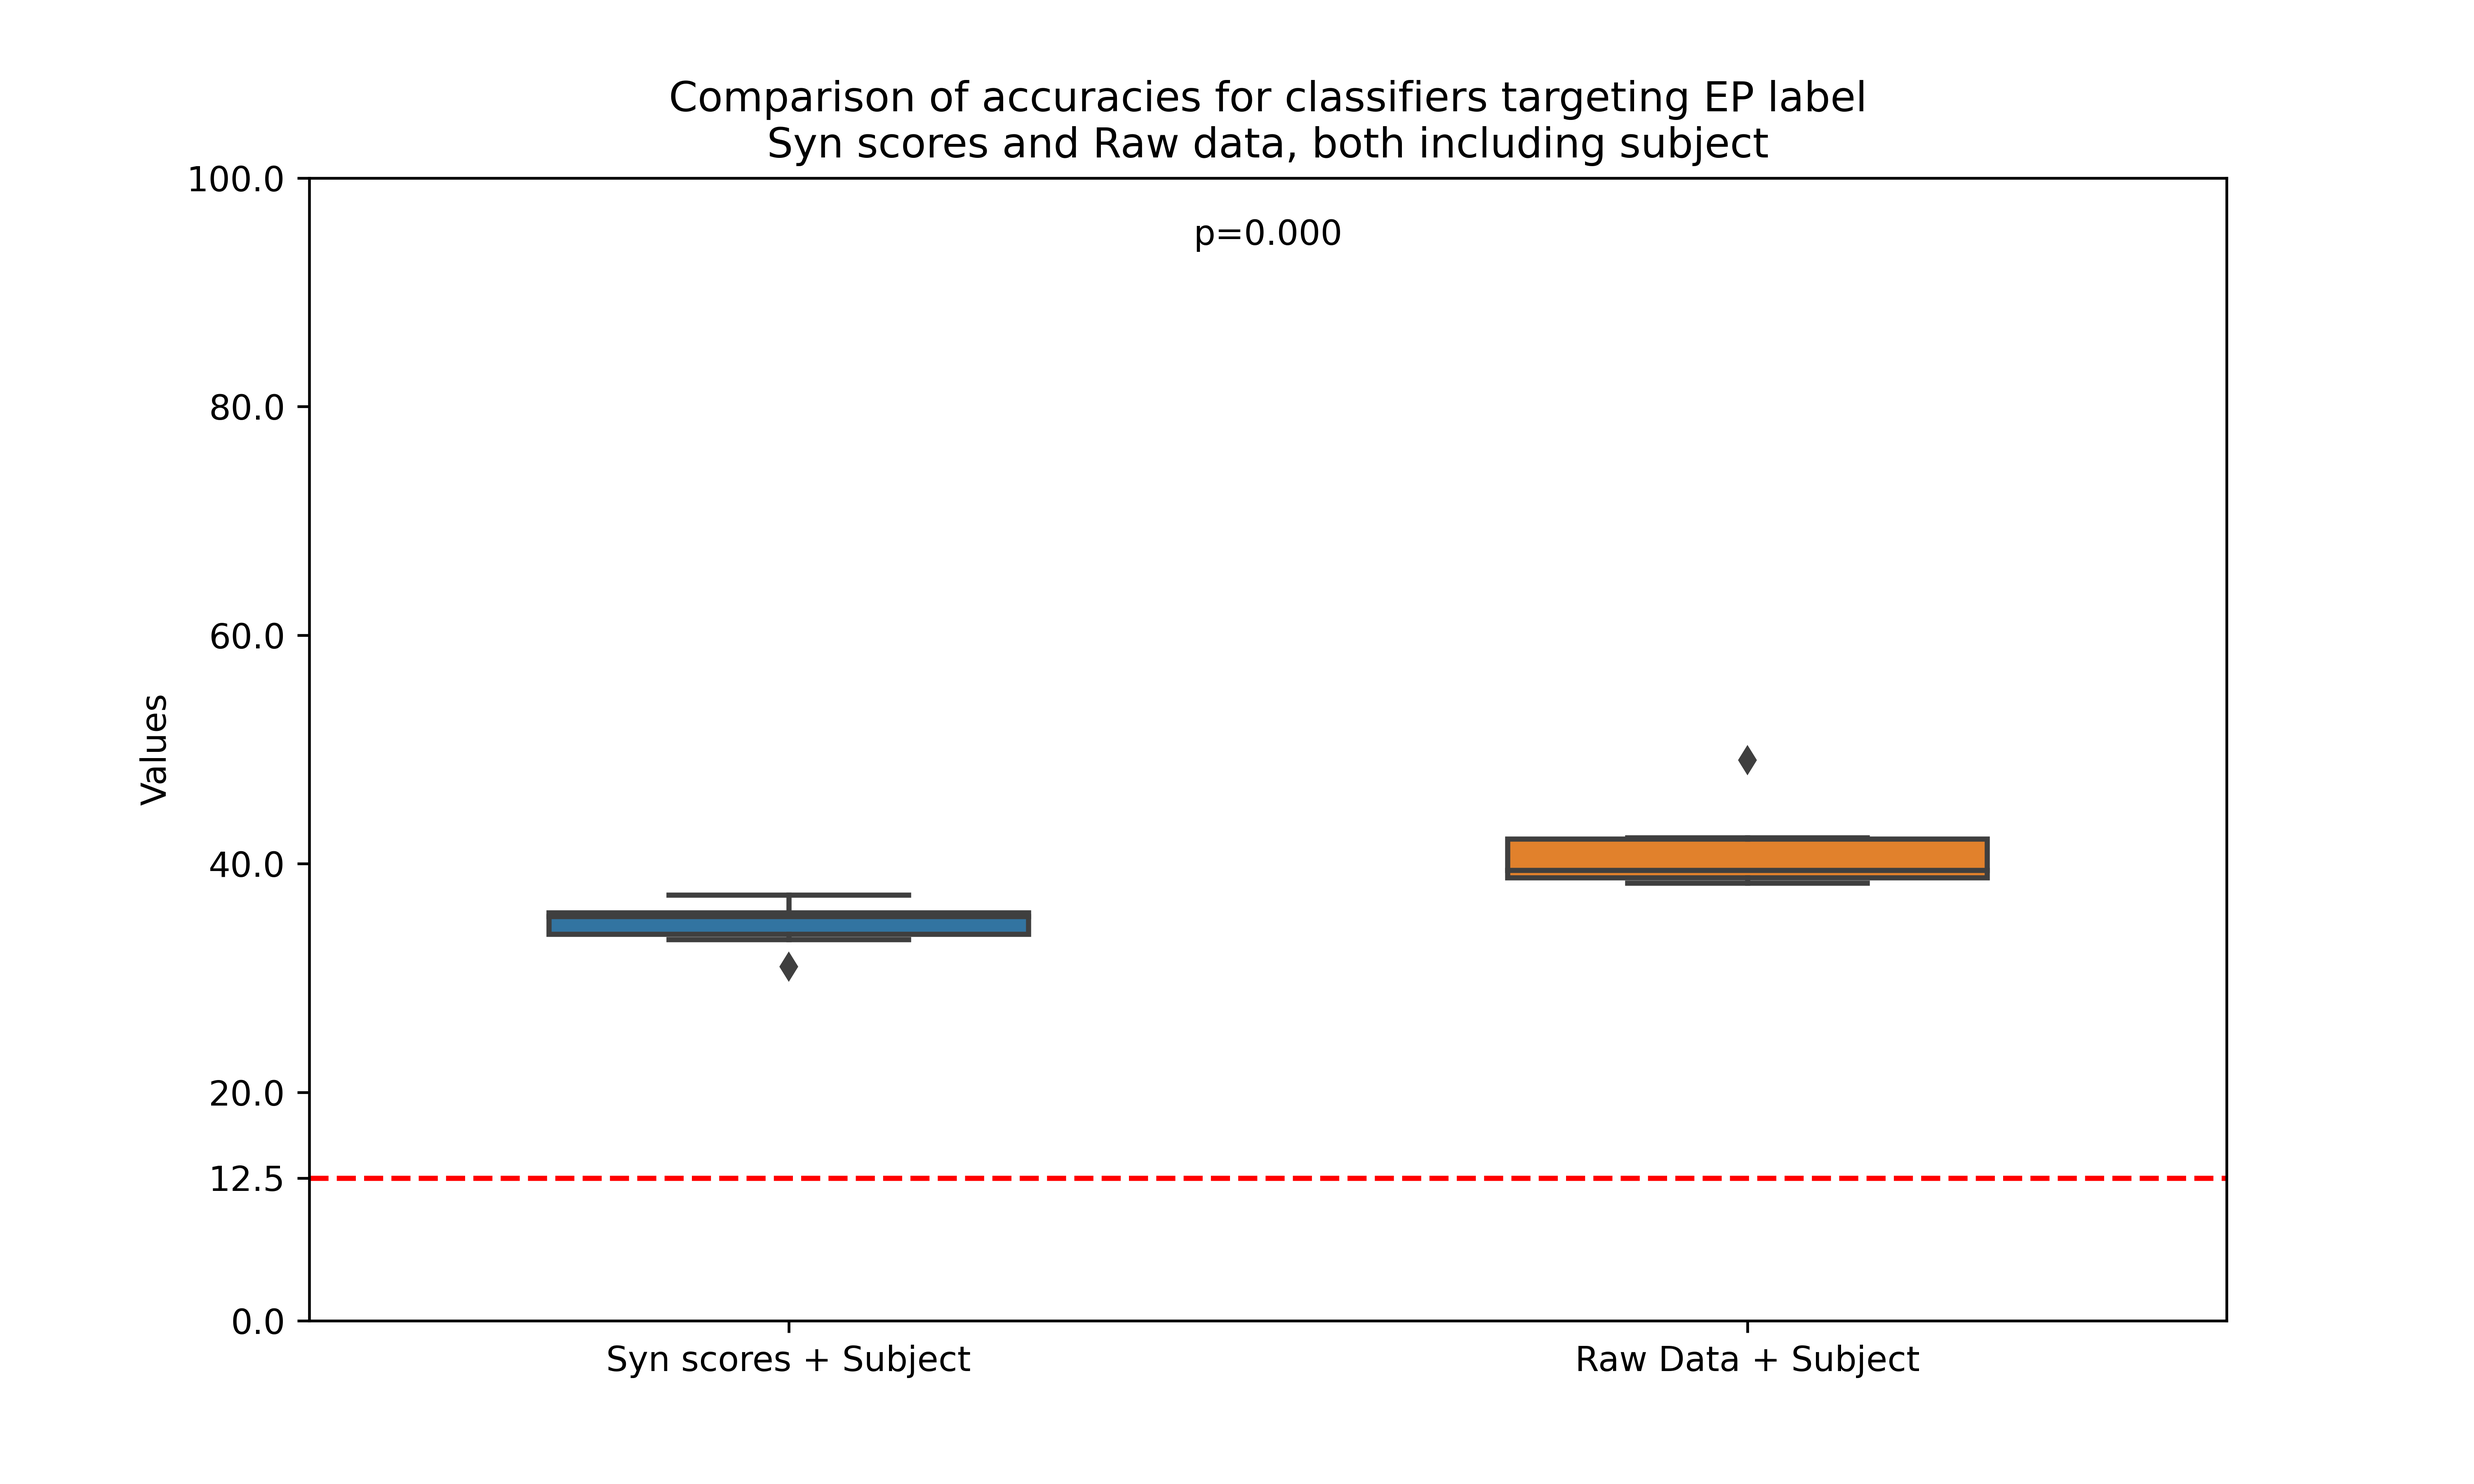
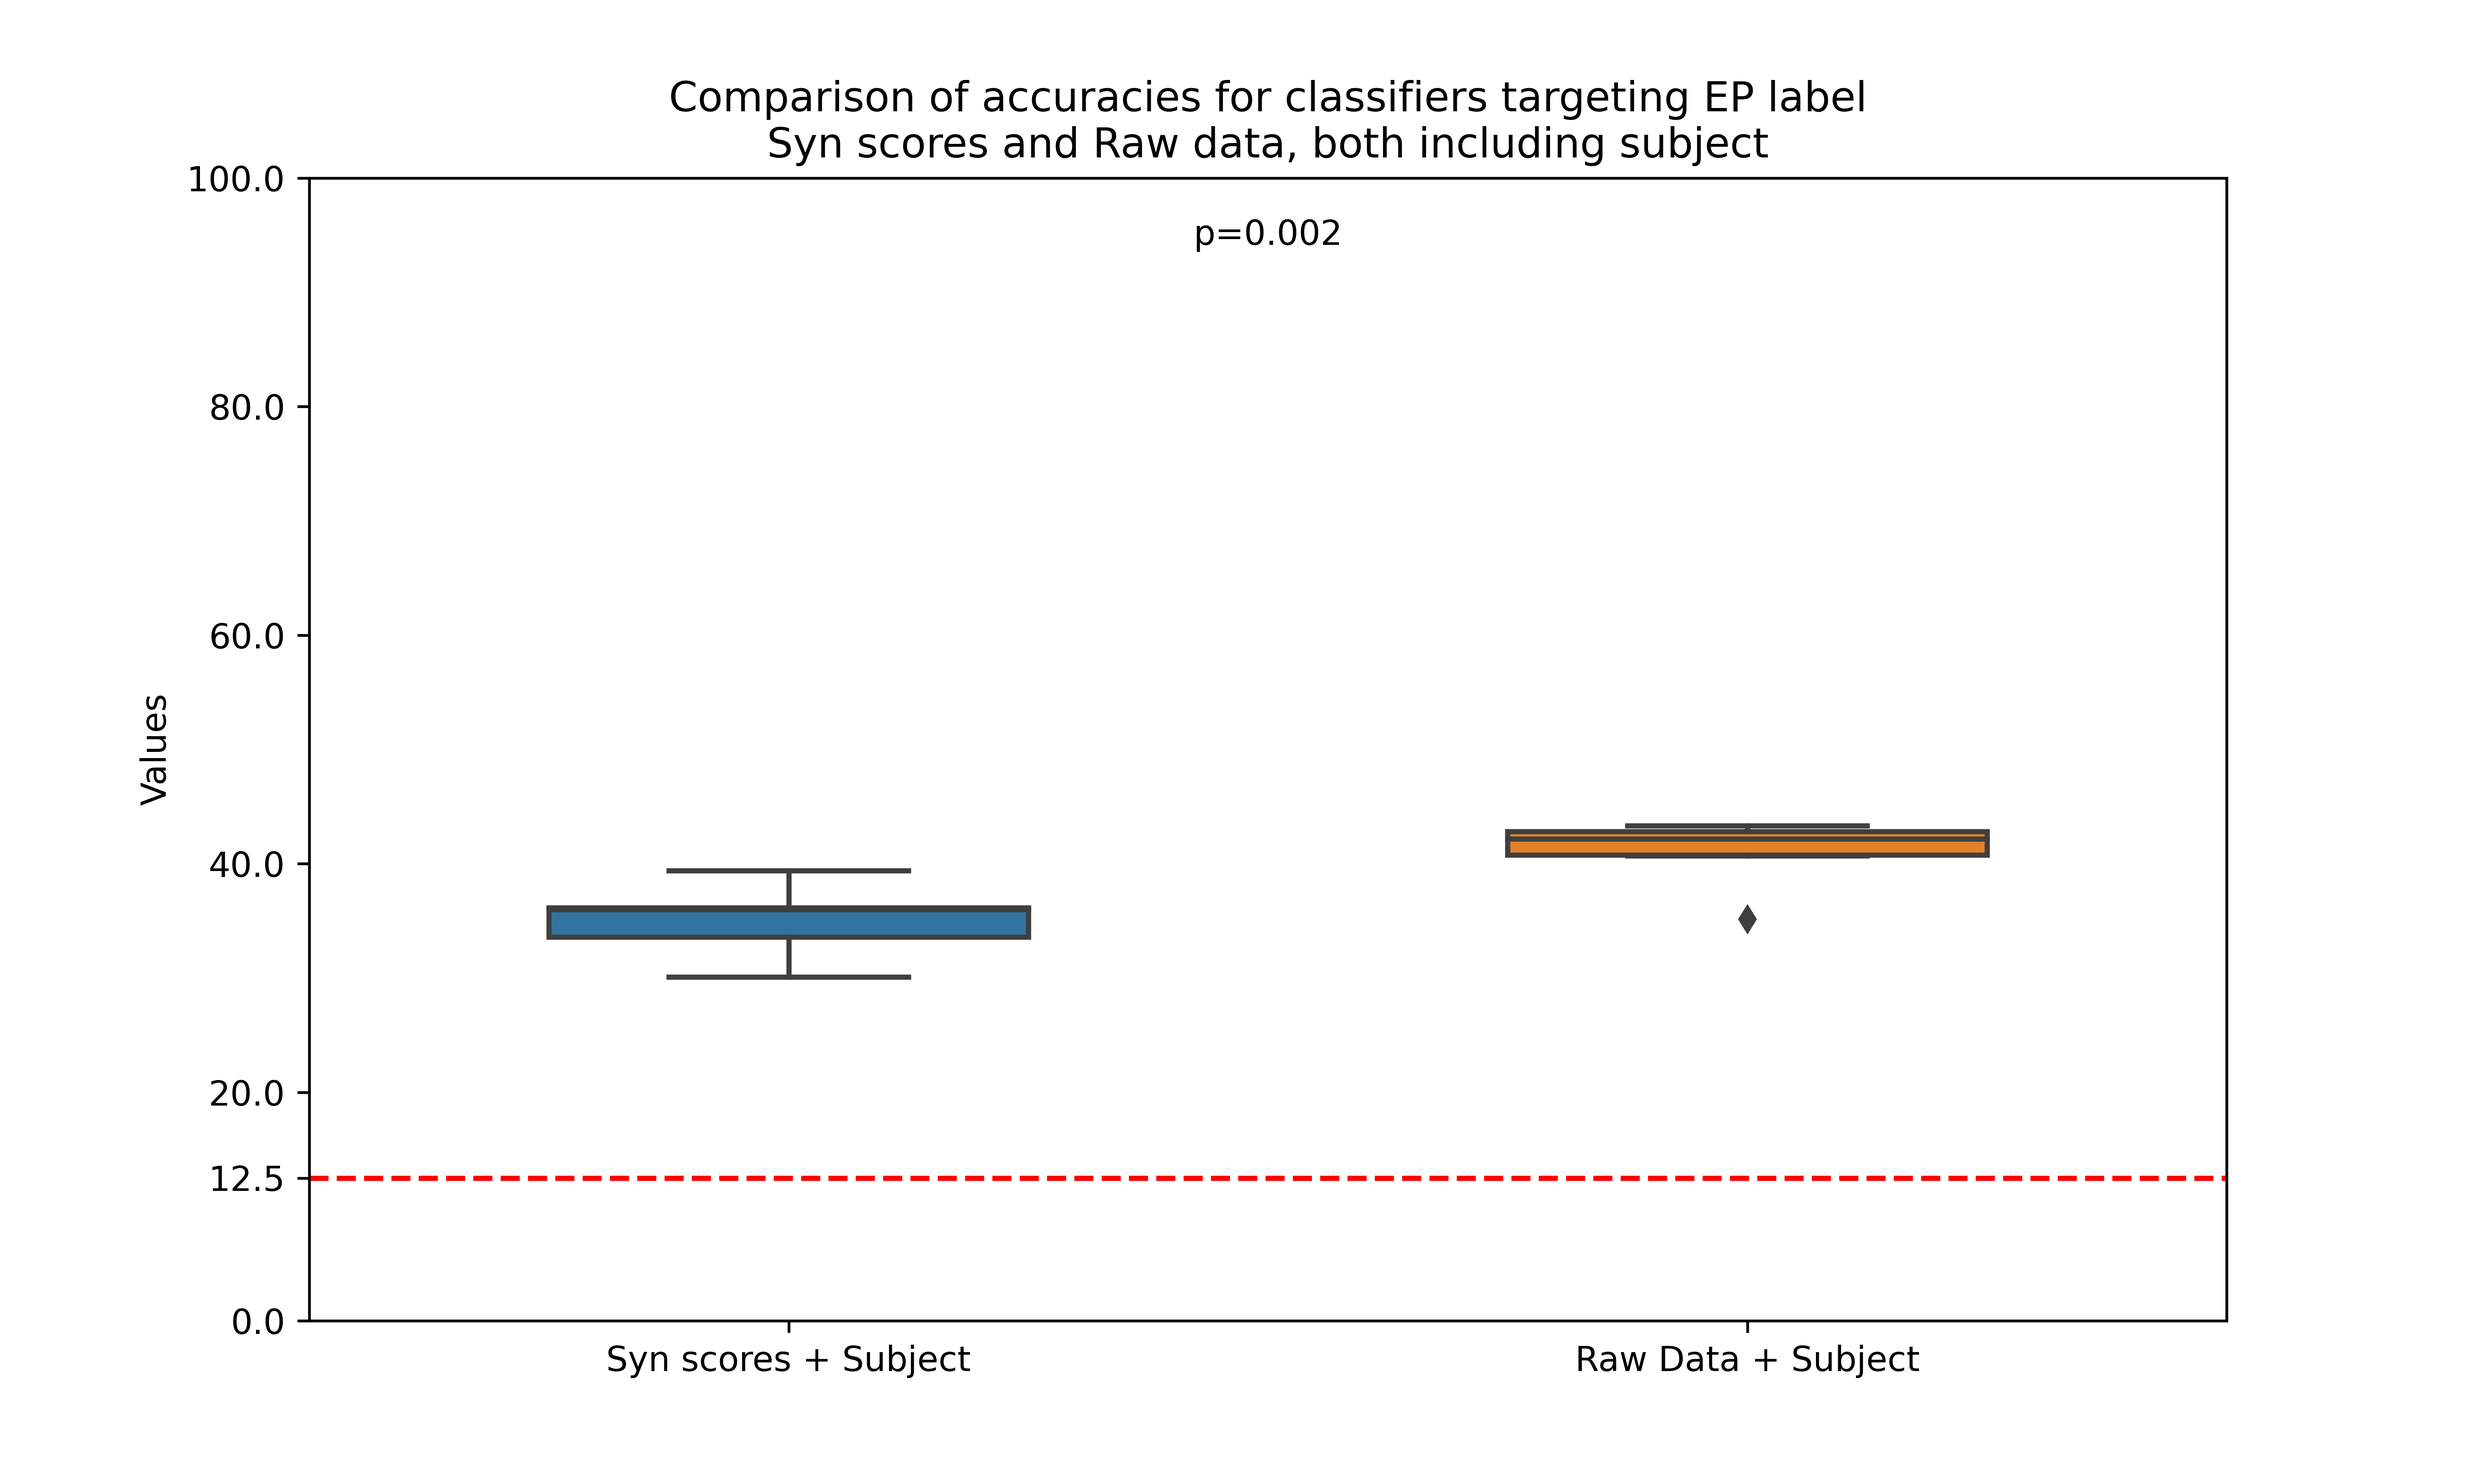
alternative clustering less restrictive

Changed region(s): [[0.2182, 0.56, 0.4052, 0.6844], [0.5922, 0.5289, 0.8103, 0.6222]]

diff --git a/PyCode/AllPython/ObjectClassifier.py b/PyCode/AllPython/ObjectClassifier.py
@@ -58,58 +58,58 @@ from ep_modelling import ep_classification_plots
 
 def main():
 
-    data_folder = '/BIDSData'
-    subject_folders = sorted([f.name for f in os.scandir(os.getcwd() + data_folder) if f.is_dir()])
-
-    # """WE ARE REMOVING SUBJECTS 7 TO 9"""
-    # ##########################################################################################################################
-    # [subject_folders.remove(x) for x in ['sub-07', 'sub-08', 'sub-09']]
-    # ##########################################################################################################################
-
-    data_df = pd.DataFrame()
-
-    # ep_presabs_df = pd.DataFrame()
-    # ep_dur_df = pd.DataFrame()
-    # ep_count_df = pd.DataFrame()
-
-    for subject in subject_folders:  # load data for each subject
-        """LOAD RAW DATA"""
-        subject_df = load(subject)
-        data_df = pd.concat([data_df, subject_df], ignore_index=True)
-
-        # """LOAD EP TRIALS"""
-        # [subject_ep_presabs, subject_ep_dur, subject_ep_count] = load_eps(subject)
-        # ep_presabs_df = pd.concat([ep_presabs_df, subject_ep_presabs], ignore_index=True)
-        # ep_dur_df = pd.concat([ep_dur_df, subject_ep_dur], ignore_index=True)
-        # ep_count_df = pd.concat([ep_count_df, subject_ep_count], ignore_index=True)
-
-    print("\nDATA LOADED")
-
-    """RAW DATA PREPROCESSING"""
-    split_df = split(data_df)  # split data into trials and EPs and add fields
-    split_df['Trial num'] = split_df['Trial num'].astype('str')
-    split_df['EP num'] = split_df['EP num'].astype('str')
-    print("\nDATA PREPROCESSED")
-
-    # """CHECK MIDDLE FINGER VALUES"""
-    # plt.figure()
-    # sns.boxplot(data=split_df, x="Subject", y="MiddleMPJ")
-    # plt.xticks(rotation=45, size=5)
-    # plt.show()
-    # plt.savefig('./MiddleMPJ.png')
-    # plt.close()
-
-    """REMOVE DOUBLE EP TRIALS"""
-    to_remove = [x for x in split_df['EP'].unique() if '+' in x]
-    split_df = split_df[~split_df['EP'].isin(to_remove)]
-    # ep_presabs_df = ep_presabs_df.drop(to_remove, axis=1)
-    # ep_dur_df = ep_dur_df.drop(to_remove, axis=1)
-    # ep_count_df = ep_count_df.drop(to_remove, axis=1)
-    print("\nREMOVED DOUBLE EPs")
-
-    """REPLACE CONTOUR FOLLOWING BY EDGE FOLLOWING"""
-    split_df.loc[split_df['EP'] == 'contour following', 'EP'] = 'edge following'
-    print("\nREPLACED CONTOUR FOLLOWING BY EDGE FOLLOWING")
+    # data_folder = '/BIDSData'
+    # subject_folders = sorted([f.name for f in os.scandir(os.getcwd() + data_folder) if f.is_dir()])
+    #
+    # # """WE ARE REMOVING SUBJECTS 7 TO 9"""
+    # # ##########################################################################################################################
+    # # [subject_folders.remove(x) for x in ['sub-07', 'sub-08', 'sub-09']]
+    # # ##########################################################################################################################
+    #
+    # data_df = pd.DataFrame()
+    #
+    # # ep_presabs_df = pd.DataFrame()
+    # # ep_dur_df = pd.DataFrame()
+    # # ep_count_df = pd.DataFrame()
+    #
+    # for subject in subject_folders:  # load data for each subject
+    #     """LOAD RAW DATA"""
+    #     subject_df = load(subject)
+    #     data_df = pd.concat([data_df, subject_df], ignore_index=True)
+    #
+    #     # """LOAD EP TRIALS"""
+    #     # [subject_ep_presabs, subject_ep_dur, subject_ep_count] = load_eps(subject)
+    #     # ep_presabs_df = pd.concat([ep_presabs_df, subject_ep_presabs], ignore_index=True)
+    #     # ep_dur_df = pd.concat([ep_dur_df, subject_ep_dur], ignore_index=True)
+    #     # ep_count_df = pd.concat([ep_count_df, subject_ep_count], ignore_index=True)
+    #
+    # print("\nDATA LOADED")
+    #
+    # """RAW DATA PREPROCESSING"""
+    # split_df = split(data_df)  # split data into trials and EPs and add fields
+    # split_df['Trial num'] = split_df['Trial num'].astype('str')
+    # split_df['EP num'] = split_df['EP num'].astype('str')
+    # print("\nDATA PREPROCESSED")
+    #
+    # # """CHECK MIDDLE FINGER VALUES"""
+    # # plt.figure()
+    # # sns.boxplot(data=split_df, x="Subject", y="MiddleMPJ")
+    # # plt.xticks(rotation=45, size=5)
+    # # plt.show()
+    # # plt.savefig('./MiddleMPJ.png')
+    # # plt.close()
+    #
+    # """REMOVE DOUBLE EP TRIALS"""
+    # to_remove = [x for x in split_df['EP'].unique() if '+' in x]
+    # split_df = split_df[~split_df['EP'].isin(to_remove)]
+    # # ep_presabs_df = ep_presabs_df.drop(to_remove, axis=1)
+    # # ep_dur_df = ep_dur_df.drop(to_remove, axis=1)
+    # # ep_count_df = ep_count_df.drop(to_remove, axis=1)
+    # print("\nREMOVED DOUBLE EPs")
+    #
+    # """REPLACE CONTOUR FOLLOWING BY EDGE FOLLOWING"""
+    # split_df.loc[split_df['EP'] == 'contour following', 'EP'] = 'edge following'
+    # print("\nREPLACED CONTOUR FOLLOWING BY EDGE FOLLOWING")
 
     # """SELECT & SAVE EARLY ENCLOSURE DATA"""
     # early_enclosure = split_df[(split_df['EP num'].isin(['0', '1'])) & (split_df['EP'].isin(['enclosure', 'enclosure part']))]
@@ -194,12 +194,12 @@ def main():
     # syn_clustering()
     # print("\nSynergy clustering done!")
 
-    # syn_clustering_alternative()
-    # print("\nSynergy alternative clustering done!")
+    syn_clustering_alternative()
+    print("\nSynergy alternative clustering done!")
 
     # score_reordering('agglomerative')
-    # score_reordering('alternative')
-    # print("\nSynergy reordering done!")
+    score_reordering('alternative')
+    print("\nSynergy reordering done!")
 
 
     ###################################
@@ -340,21 +340,21 @@ def main():
     ## TARGETING EP
     ###########################################################
 
-    ep_from_raw_classif(split_df, False)
-    print("\nEP classification from raw scores without subjects DONE!")
-
-    ep_from_raw_classif(split_df, True)
-    print("\nEP classification from raw scores with subjects DONE!")
-
+    # ep_from_raw_classif(split_df, False)
+    # print("\nEP classification from raw scores without subjects DONE!")
+    #
+    # ep_from_raw_classif(split_df, True)
+    # print("\nEP classification from raw scores with subjects DONE!")
+    #
     ep_from_scores_classif(False)
     print("\nEP classification from syn scores without subjects DONE!")
 
     ep_from_scores_classif(True)
     print("\nEP classification from syn scores with subjects DONE!")
 
-    # ['syn', 'raw', 'syn_raw_suj', 'syn_raw_no_suj]
+    # # ['syn', 'raw', 'syn_raw_suj', 'syn_raw_no_suj]
     ep_classification_plots('syn')
-    ep_classification_plots('raw')
+    # ep_classification_plots('raw')
     ep_classification_plots('syn_raw_suj')
     ep_classification_plots('syn_raw_no_suj')
 

diff --git a/PyCode/AllPython/synergy_pipeline.py b/PyCode/AllPython/synergy_pipeline.py
@@ -800,7 +800,8 @@ def syn_clustering_alternative():
                 select_components = components_df.loc[
                     (components_df['Subject'] == str(subjects[it_subj])) & (components_df['Label'] == int(best_clust))]
 
-                if (len(select_components.index) > 0) & (select_components['Score'].max() > 0):  # If there are components for that subject in the cluster and the sample is well clustered
+                # if (len(select_components.index) > 0) & (select_components['Score'].max() > 0):  # If there are components for that subject in the cluster and the sample is well clustered
+                if (len(select_components.index) > 0):  # If there are components for that subject in the cluster
 
                     best_suj_component = select_components.loc[select_components['Score'].idxmax()]['Component']
 
